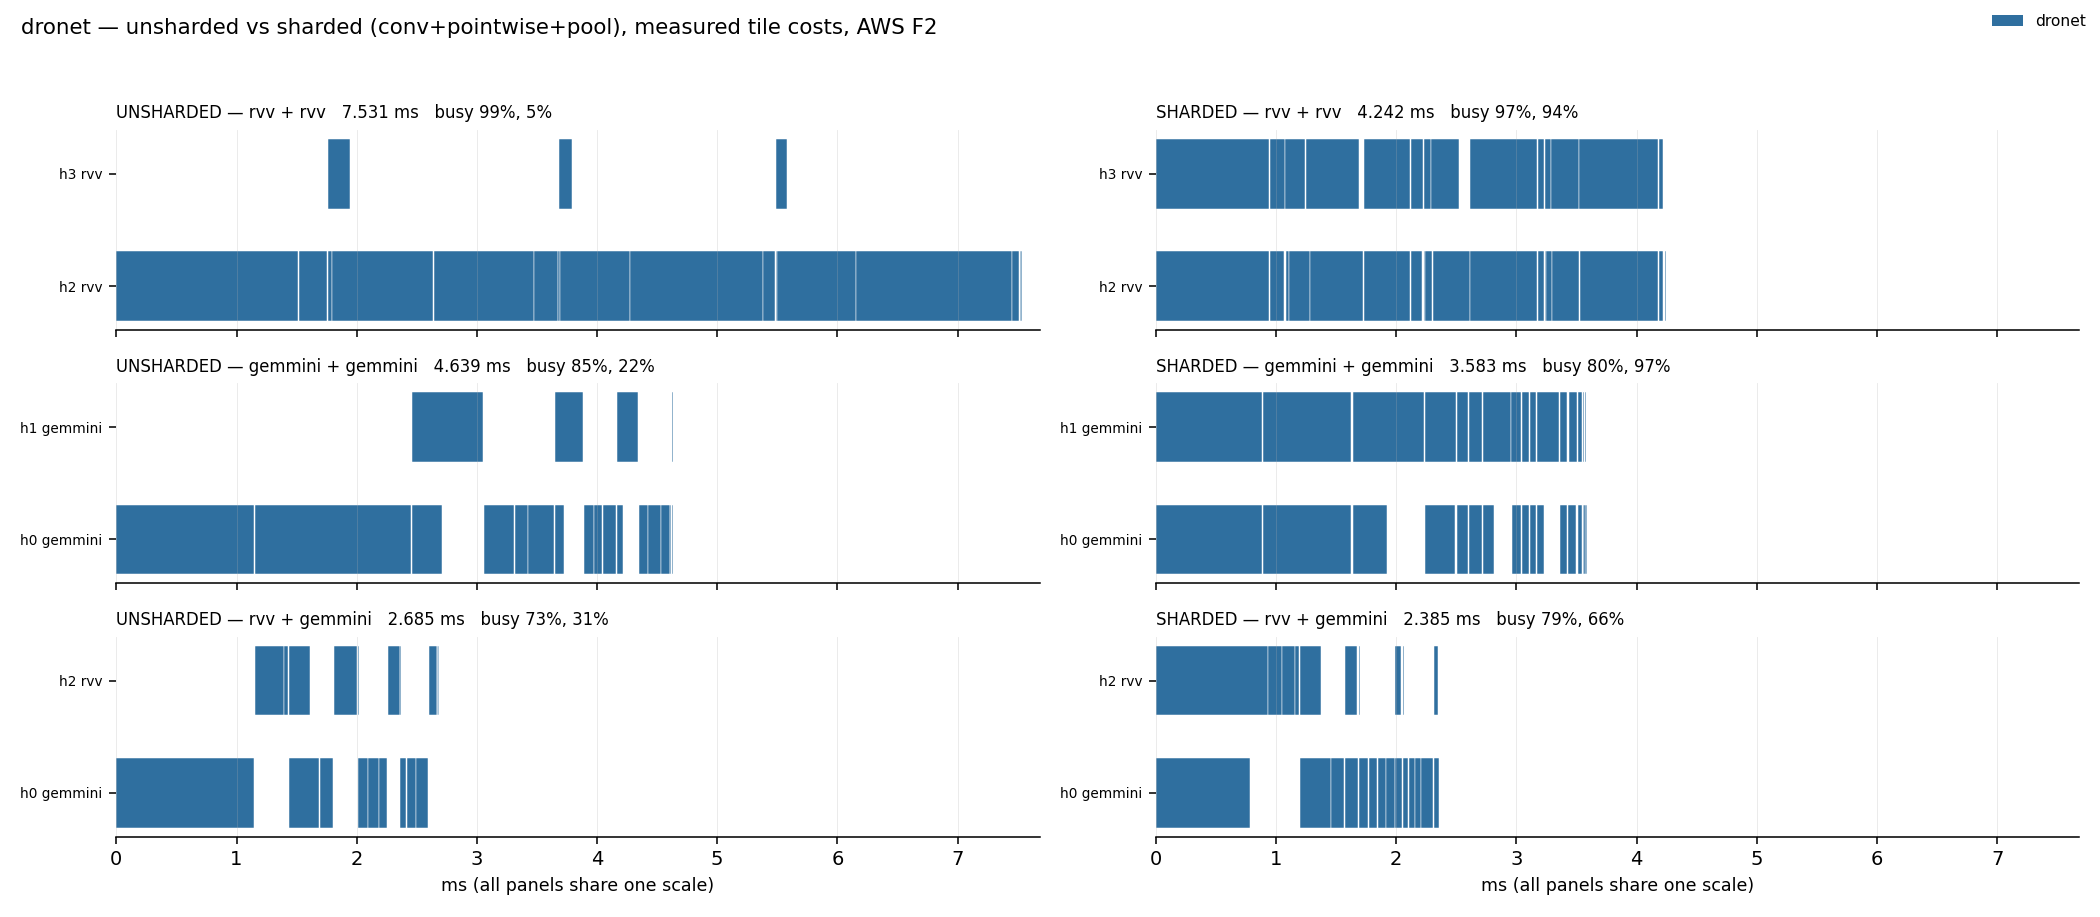
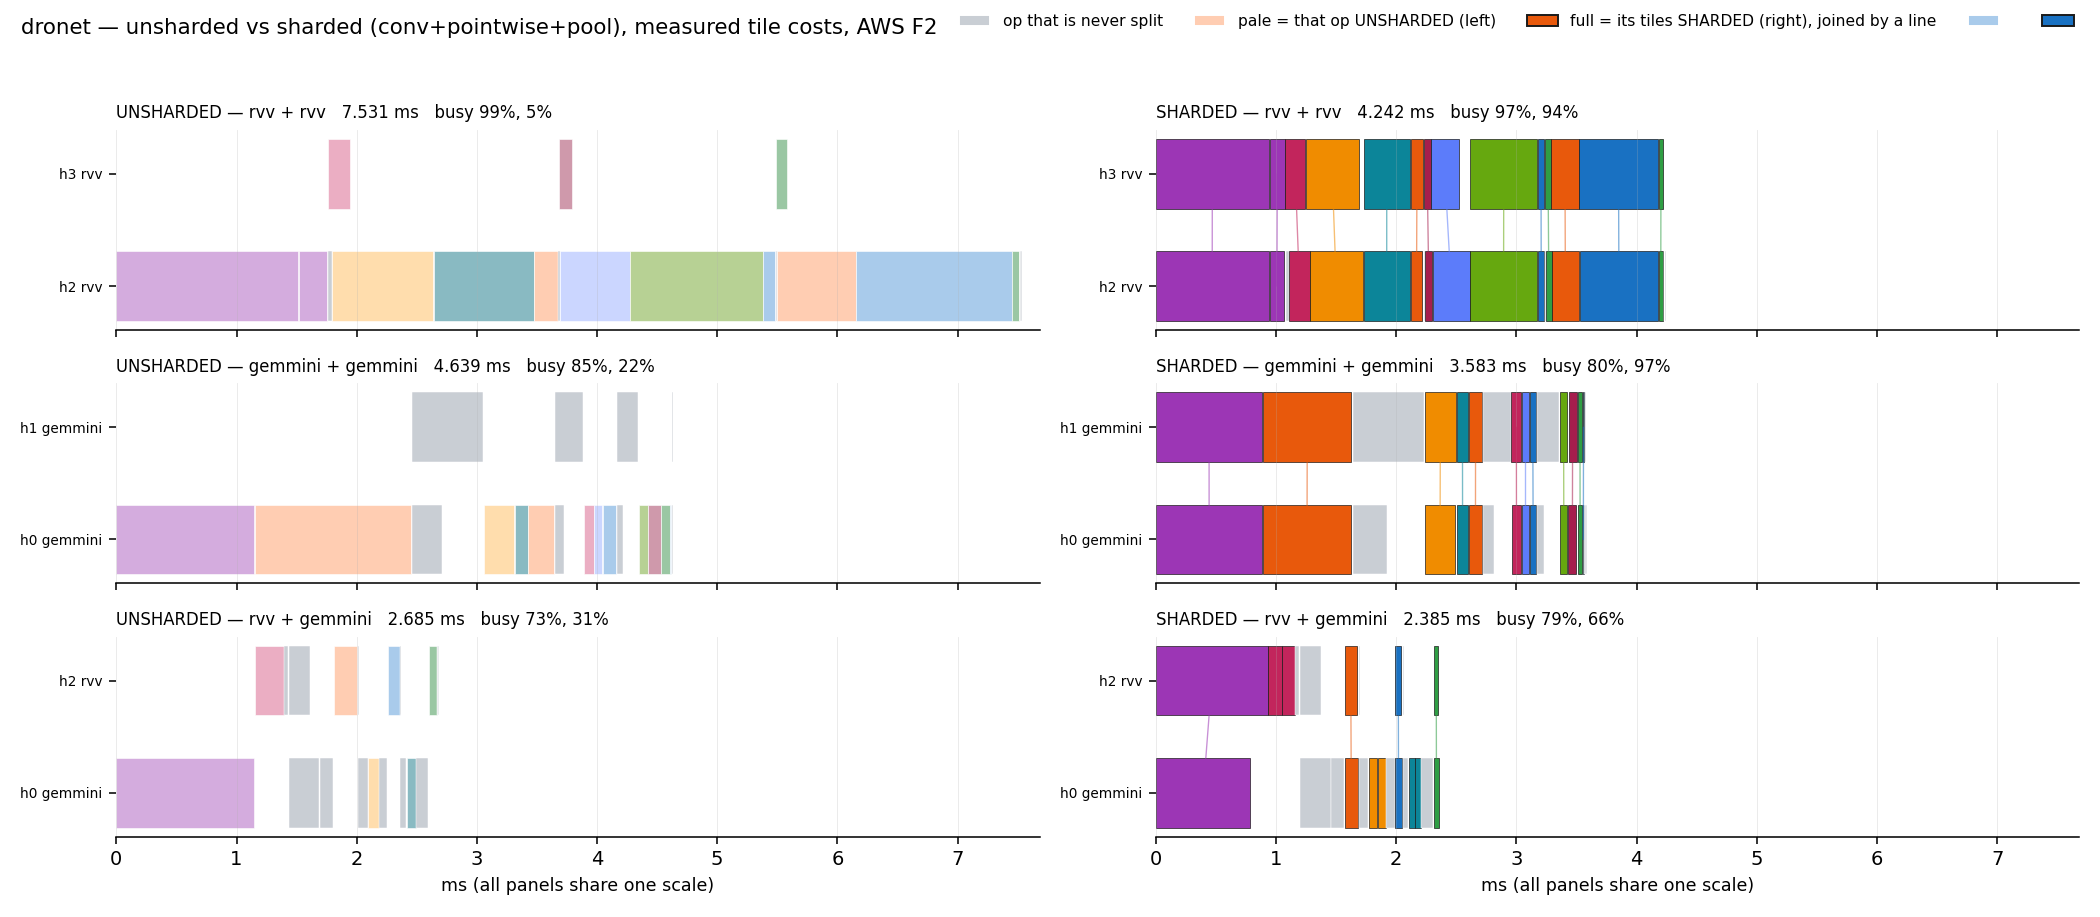
pair_gantt: make one op followable across both panels by hue
Every block used to be the same shade, so the chart could not answer the
question it exists to answer -- which bars are the halves of one split op, and
what was that op before it was split?

Now the colour map is built ONCE PER ROW from the ops the sharded panel splits,
and applied to both panels: full saturation for an op's tiles on the right
(joined by a line when they land on different harts), the PALE form of the same
hue for the single block it was on the left. Ops never split on either side stay
neutral grey, so the split work is what the eye lands on. Multi-network charts
keep their per-network colours, where identity matters more than splitness.

Also fixes a bug from the first version: the colour variable was named ,
which shadowed the enclosing loop's column index, so every left-hand panel was
titled SHARDED. The numbers were right and only the label was wrong, which is
the kind of defect that survives review -- caught by looking at the render.

Claude-Session: https://claude.ai/code/session_016FZJBMj4iUznoDoS6GgxGm

diff --git a/experiments/shard_dim/scripts/pair_gantt.py b/experiments/shard_dim/scripts/pair_gantt.py
@@ -7,10 +7,11 @@ machine configuration, all six panels on ONE shared time axis.
 A blank tag leaves that half empty rather than dropping the row, so a missing
 cell is visible instead of silently changing the layout.
 """
-import sys, os
+import sys, os, colorsys
 import matplotlib; matplotlib.use("Agg")
 import matplotlib.pyplot as plt
 from matplotlib.patches import Patch
+import matplotlib.colors as mcolors
 sys.path.insert(0, os.path.dirname(os.path.abspath(__file__)))
 import importlib.util
 _sp = importlib.util.spec_from_file_location(
@@ -19,6 +20,14 @@ _g = importlib.util.module_from_spec(_sp)
 _g.__name__ = "g"
 src = open(_sp.origin).read().replace("\nmain()\n", "\n")
 exec(compile(src, _sp.origin, "exec"), _g.__dict__)
+
+def _pale(c, drop=0.68, lift=0.16):
+    """Same HUE, much less saturation. The unsharded panel uses the pale form
+    of whatever colour the op's tiles carry on the sharded side, so one op is
+    followable across the two panels by hue alone."""
+    h, sat, v = colorsys.rgb_to_hsv(*mcolors.to_rgb(c))
+    return colorsys.hsv_to_rgb(h, sat * (1 - drop), min(1.0, v + lift))
+
 
 out, title, specs = sys.argv[1], sys.argv[2], sys.argv[3:]
 rows = []
@@ -38,6 +47,15 @@ nets = sorted({n for _, a, c in rows for d, _ in (a, c) if d for *_, n in d})
 fig, axes = plt.subplots(len(rows), 2, figsize=(15, 1.75 * len(rows) + 1.3),
                          squeeze=False, sharex=True)
 for r, (lab, a, c) in enumerate(rows):
+    # ONE colour map per row, derived from the ops the SHARDED panel splits,
+    # and applied to BOTH panels. That is what makes an op followable: full
+    # saturation for its tiles on the right, the pale form of the same hue for
+    # the single block it was on the left.
+    _sd = c[0] if c else None
+    _parents = sorted({nm.split(".tile_")[0]
+                       for h, t, e, nm, op, net in (_sd or []) if ".tile_" in nm})
+    pcol = {par: _g.TILE_CYCLE[i % len(_g.TILE_CYCLE)]
+            for i, par in enumerate(_parents)}
     for col, (d, expected) in ((0, a), (1, c)):
         ax = axes[r][col]
         if not d:
@@ -53,11 +71,41 @@ for r, (lab, a, c) in enumerate(rows):
         t0 = min(t for _, t, _, _, _, _ in d)
         harts = sorted({h for h, _, _, _, _, _ in d})
         busy = {h: 0.0 for h in harts}
+        # TILES OF ONE OP SHARE A COLOUR, and are joined by a line when they
+        # land on different harts. Without this every block is the same shade
+        # and the chart cannot answer the question it exists to answer -- which
+        # of these bars are the two halves of one split op, running at once?
+        # Unsplit ops stay neutral grey so the split work is what stands out
+        # (on a multi-network chart they keep their network colour instead,
+        # because there identity matters more than splitness).
+        multi_net = len(nets) > 1
+        groups = {}
         for h, t, e, nm, op, net in d:
+            if ".tile_" in nm:
+                groups.setdefault(nm.split(".tile_")[0], []).append(
+                    (harts.index(h), t - t0, e - t0))
+        for h, t, e, nm, op, net in d:
+            par = nm.split(".tile_")[0]
+            if ".tile_" in nm and par in pcol:          # a tile, sharded side
+                bcol, ec, lw = pcol[par], "#1a1a1a", 0.35
+            elif par in pcol:                            # SAME op, unsharded side
+                bcol, ec, lw = _pale(pcol[par]), "white", 0.3
+            else:                                        # never split either side
+                bcol = _g.NET_COL.get(net, _g.FALLBACK) if multi_net else "#C9CED4"
+                ec, lw = "white", 0.25
             ax.barh(harts.index(h), max(e - t, span * 0.0004), left=t - t0,
-                    height=0.62, color=_g.NET_COL.get(net, _g.FALLBACK),
-                    edgecolor="white", linewidth=0.25)
+                    height=0.62, color=bcol, edgecolor=ec, linewidth=lw)
             busy[h] += e - t
+        # Join the tiles of one parent across harts.
+        for par, tiles in groups.items():
+            if len(tiles) < 2 or len({y for y, _, _ in tiles}) < 2:
+                continue
+            tiles = sorted(tiles, key=lambda z: z[0])
+            lcol = pcol[par]
+            for (y0, s0, e0), (y1, s1, e1) in zip(tiles, tiles[1:]):
+                ax.plot([(s0 + e0) / 2, (s1 + e1) / 2], [y0, y1],
+                        color=lcol, lw=0.7, alpha=0.55, zorder=3,
+                        solid_capstyle="round")
         mk = max(e for _, _, e, _, _, _ in d) - t0
         ax.set_yticks(range(len(harts)))
         ax.set_yticklabels([f"h{h} {_g.BE.get(h,'?')}" for h in harts], fontsize=7)
@@ -69,9 +117,20 @@ for r, (lab, a, c) in enumerate(rows):
         ax.grid(axis="x", alpha=0.25, linewidth=0.5)
         for sp2 in ("top", "right", "left"): ax.spines[sp2].set_visible(False)
 for ax in axes[-1]: ax.set_xlabel("ms (all panels share one scale)", fontsize=9)
-fig.legend(handles=[Patch(facecolor=_g.NET_COL.get(n, _g.FALLBACK), label=n)
-                    for n in nets],
-           loc="upper right", fontsize=8, frameon=False, ncol=len(nets))
+if len(nets) > 1:
+    legend = [Patch(facecolor=_g.NET_COL.get(n, _g.FALLBACK), label=n) for n in nets]
+else:
+    legend = [
+        Patch(facecolor="#C9CED4", edgecolor="white",
+              label="op that is never split"),
+        Patch(facecolor=_pale(_g.TILE_CYCLE[0]), edgecolor="white",
+              label="pale = that op UNSHARDED (left)"),
+        Patch(facecolor=_g.TILE_CYCLE[0], edgecolor="#1a1a1a",
+              label="full = its tiles SHARDED (right), joined by a line"),
+        Patch(facecolor=_pale(_g.TILE_CYCLE[1]), edgecolor="white", label=None),
+        Patch(facecolor=_g.TILE_CYCLE[1], edgecolor="#1a1a1a", label=None)]
+fig.legend(handles=legend, loc="upper right", fontsize=8, frameon=False,
+           ncol=len(legend))
 fig.suptitle(title, fontsize=11, x=0.01, ha="left")
 fig.tight_layout(rect=[0, 0, 1, 0.955])
 fig.savefig(out, dpi=140)

diff --git a/experiments/shard_dim/scripts/gantt.py b/experiments/shard_dim/scripts/gantt.py
@@ -111,3 +111,8 @@ def main():
 
 
 main()
+
+#: Colours for split-op tile GROUPS. Qualitative and high-contrast: adjacent
+#: groups must be told apart at a glance, so this is not a sequential map.
+TILE_CYCLE = ["#E8590C", "#1971C2", "#2F9E44", "#9C36B5", "#F08C00",
+              "#0C8599", "#C2255C", "#5C7CFA", "#66A80F", "#A61E4D"]
